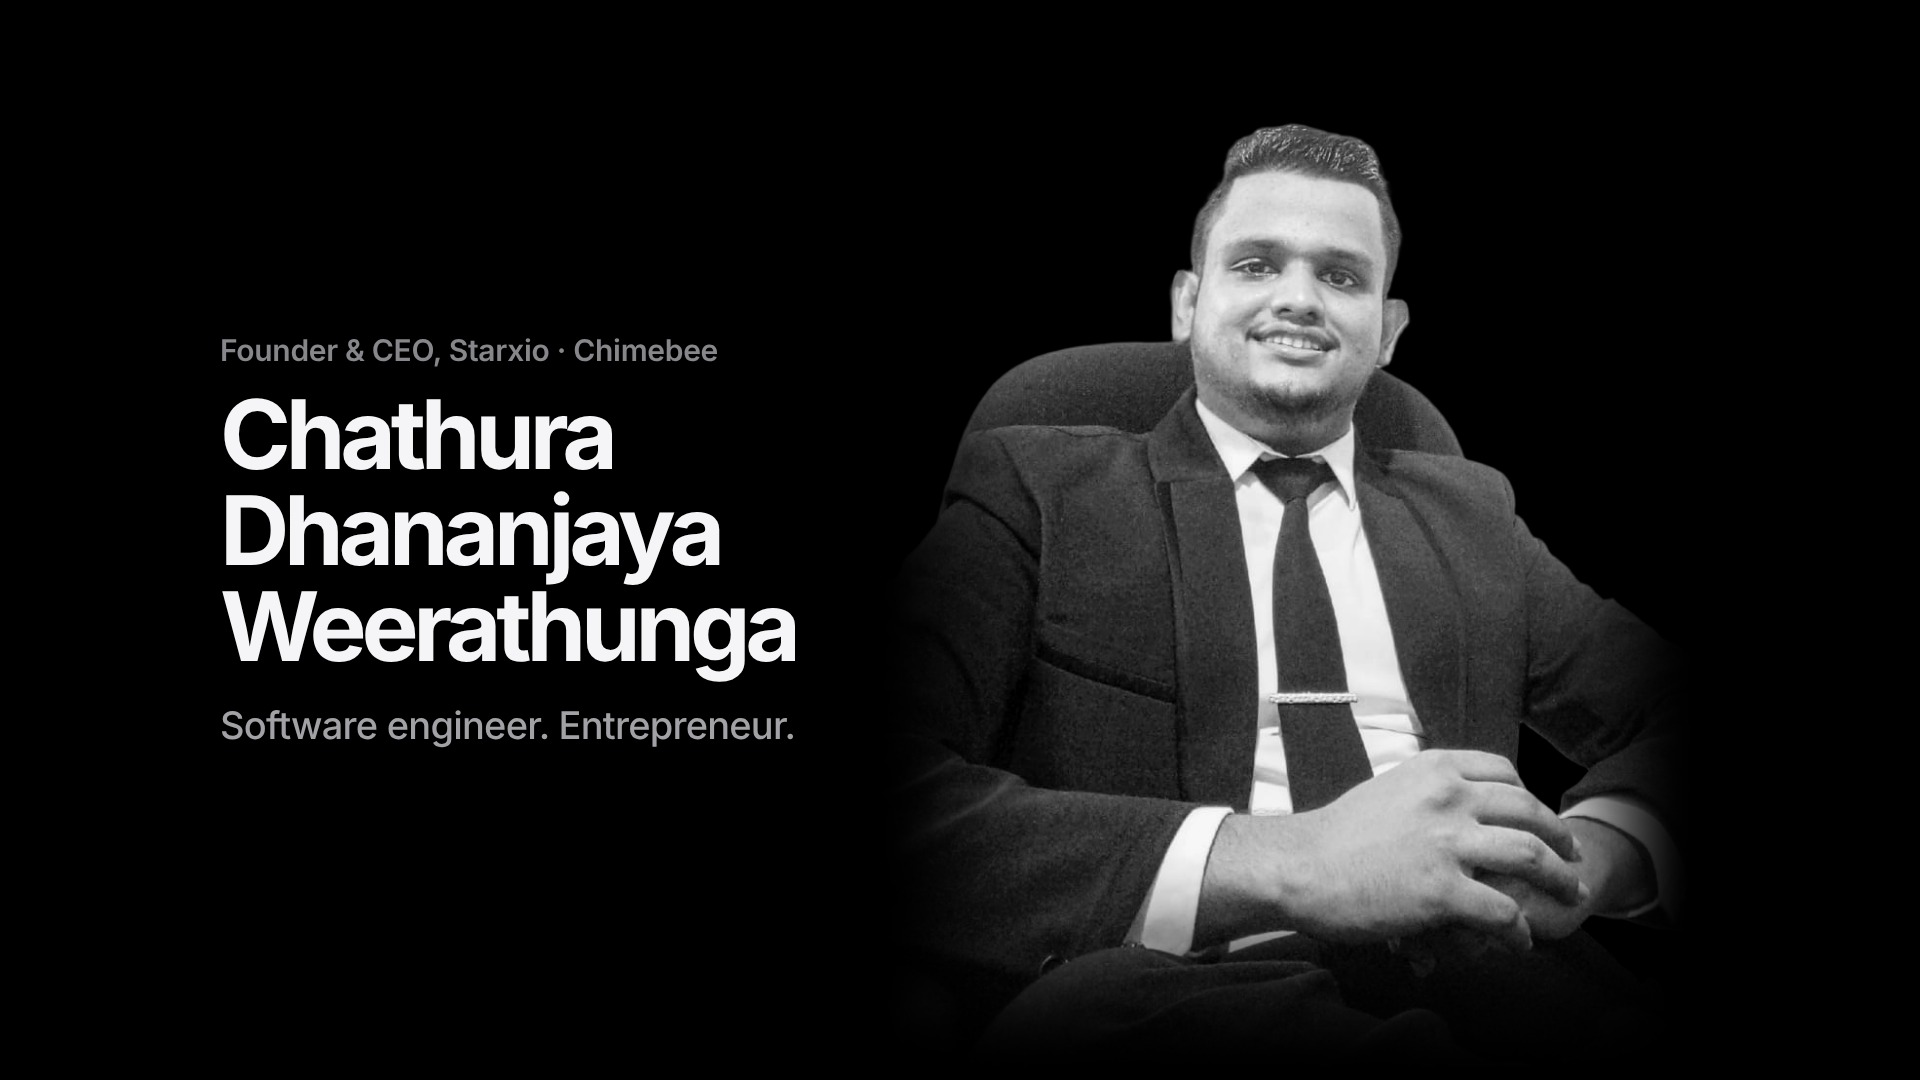
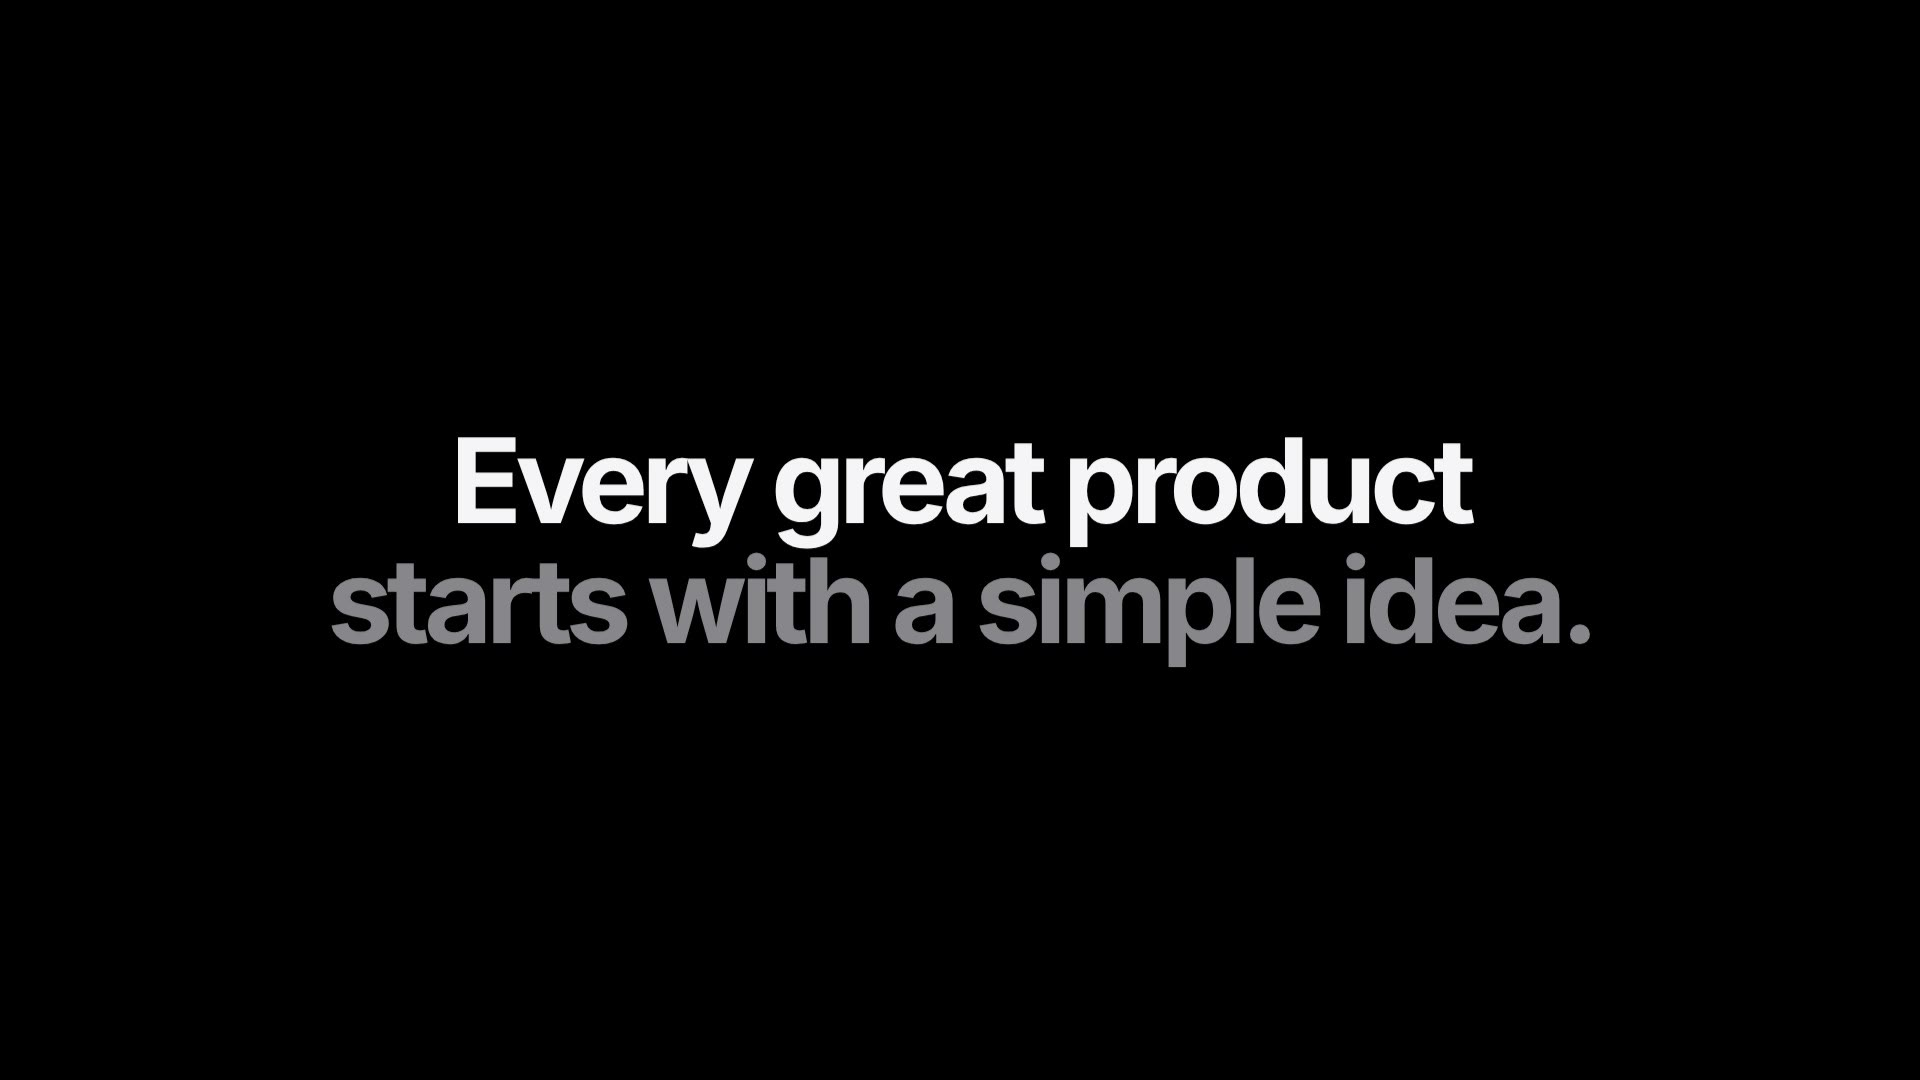
Brand film: opening-line poster and instant start
Claude-Session: https://claude.ai/code/session_01F9JYwoRXR7jThd1utj45qP

Changed region(s): [[0.0938, 0.0917, 0.875, 0.9167], [0.125, 0.3056, 0.375, 0.3361]]

diff --git a/index.html b/index.html
@@ -14,6 +14,7 @@
   (function(){var t=localStorage.getItem('theme');if(t!=='dark'&&t!=='light')t='light';document.documentElement.dataset.theme=t;})();
 </script>
 <link rel="preload" as="image" href="assets/chathura-cutout.webp" type="image/webp">
+<link rel="preload" as="image" href="assets/video/brand-film.jpg">
 <link rel="preconnect" href="https://fonts.googleapis.com">
 <link rel="preconnect" href="https://fonts.gstatic.com" crossorigin>
 <link href="https://fonts.googleapis.com/css2?family=Inter:wght@400;500;600;700;800&display=swap" rel="stylesheet">
@@ -530,6 +531,11 @@ const filmSrc = () => innerWidth <= 900 ? 'assets/video/brand-film-720.mp4' : 'a
 const setBtn = paused => { filmBtn.classList.toggle('paused', paused); filmBtn.setAttribute('aria-label', paused ? 'Play film' : 'Pause film'); };
 film.muted = true; film.defaultMuted = true; film.setAttribute('muted', '');
 film.src = filmSrc();                                   // start loading with the page
+// open on the poster frame ("Every great product starts with a simple idea.") so playback starts instantly, with no black lead-in
+const FILM_START = 2.5;
+const toStart = () => { if (!film.dataset.started && film.currentTime < FILM_START) { film.currentTime = FILM_START; film.dataset.started = '1'; } };
+film.addEventListener('loadedmetadata', toStart);
+if (film.readyState >= 1) toStart();
 const tryPlay = () => {
   if (filmPausedByUser || !filmVisible || !film.paused) return;
   film.play().then(() => setBtn(false)).catch(() => setBtn(true));
